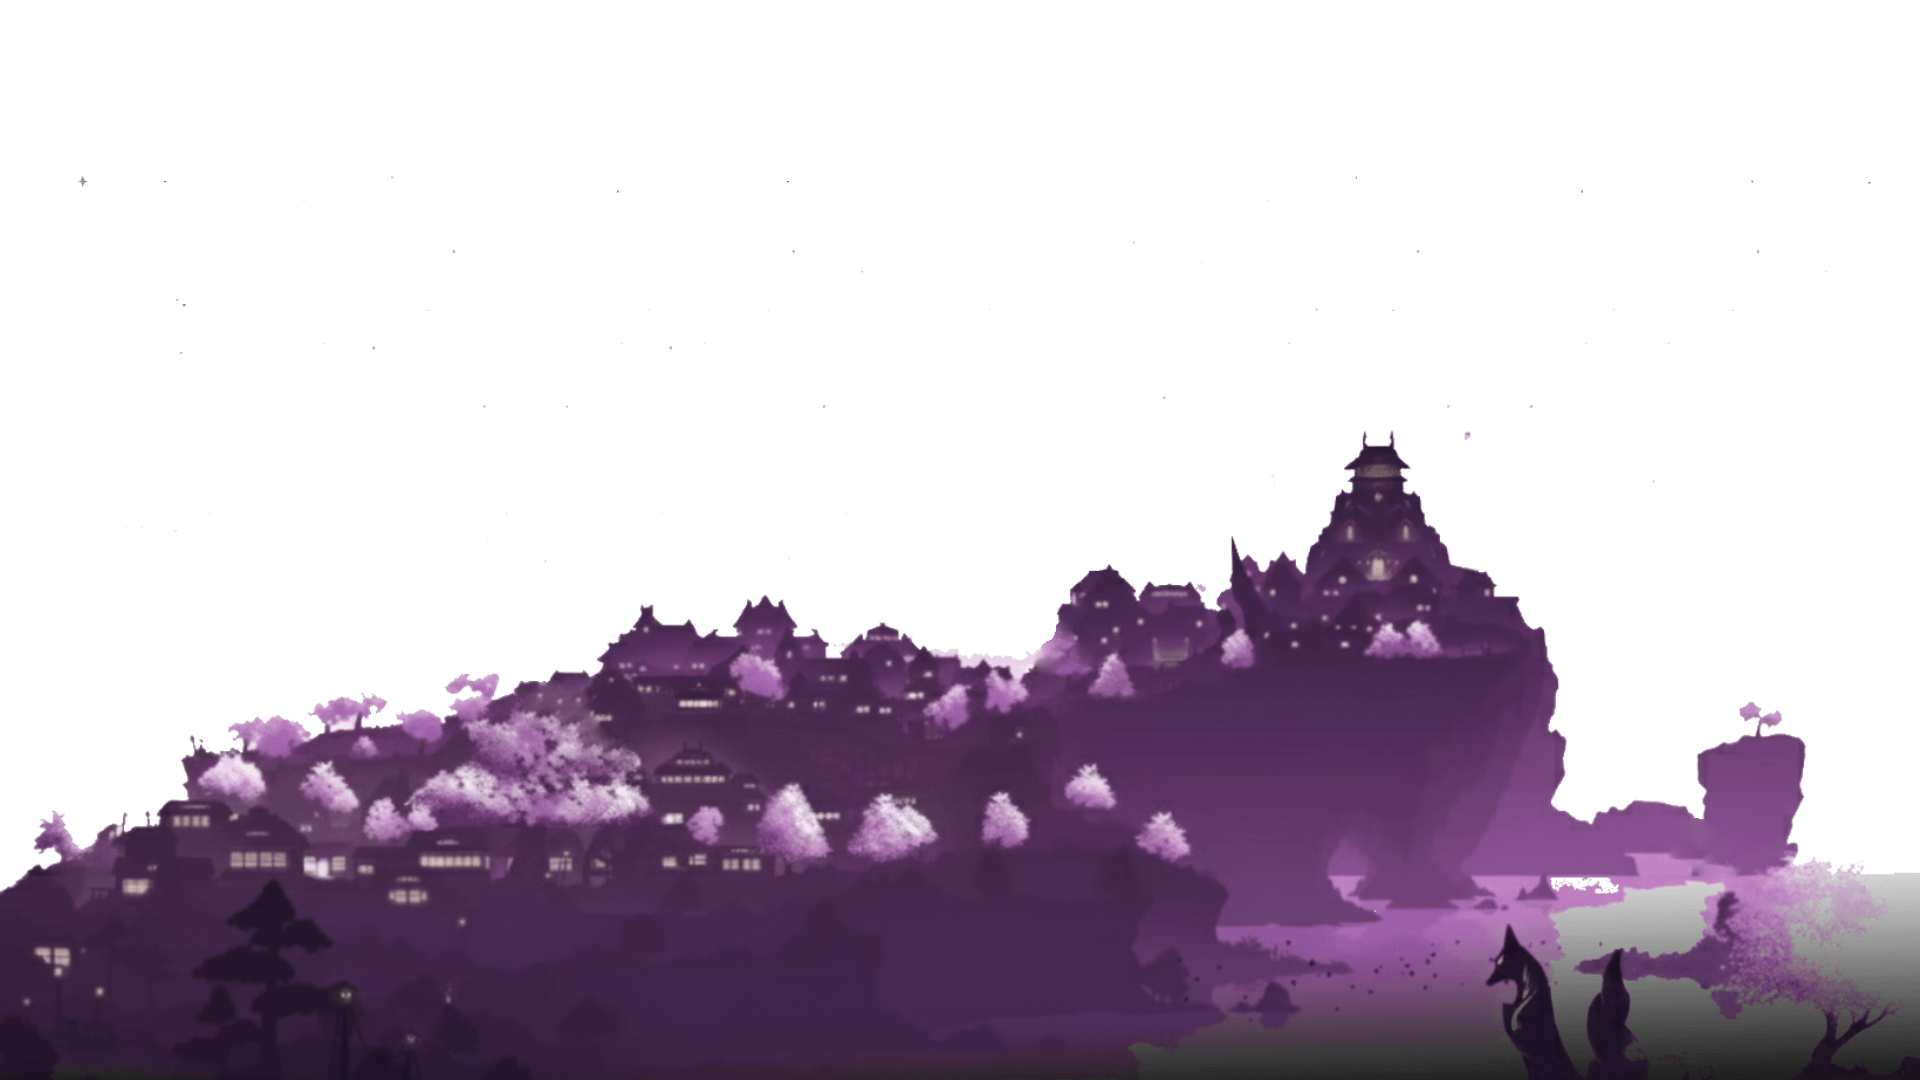
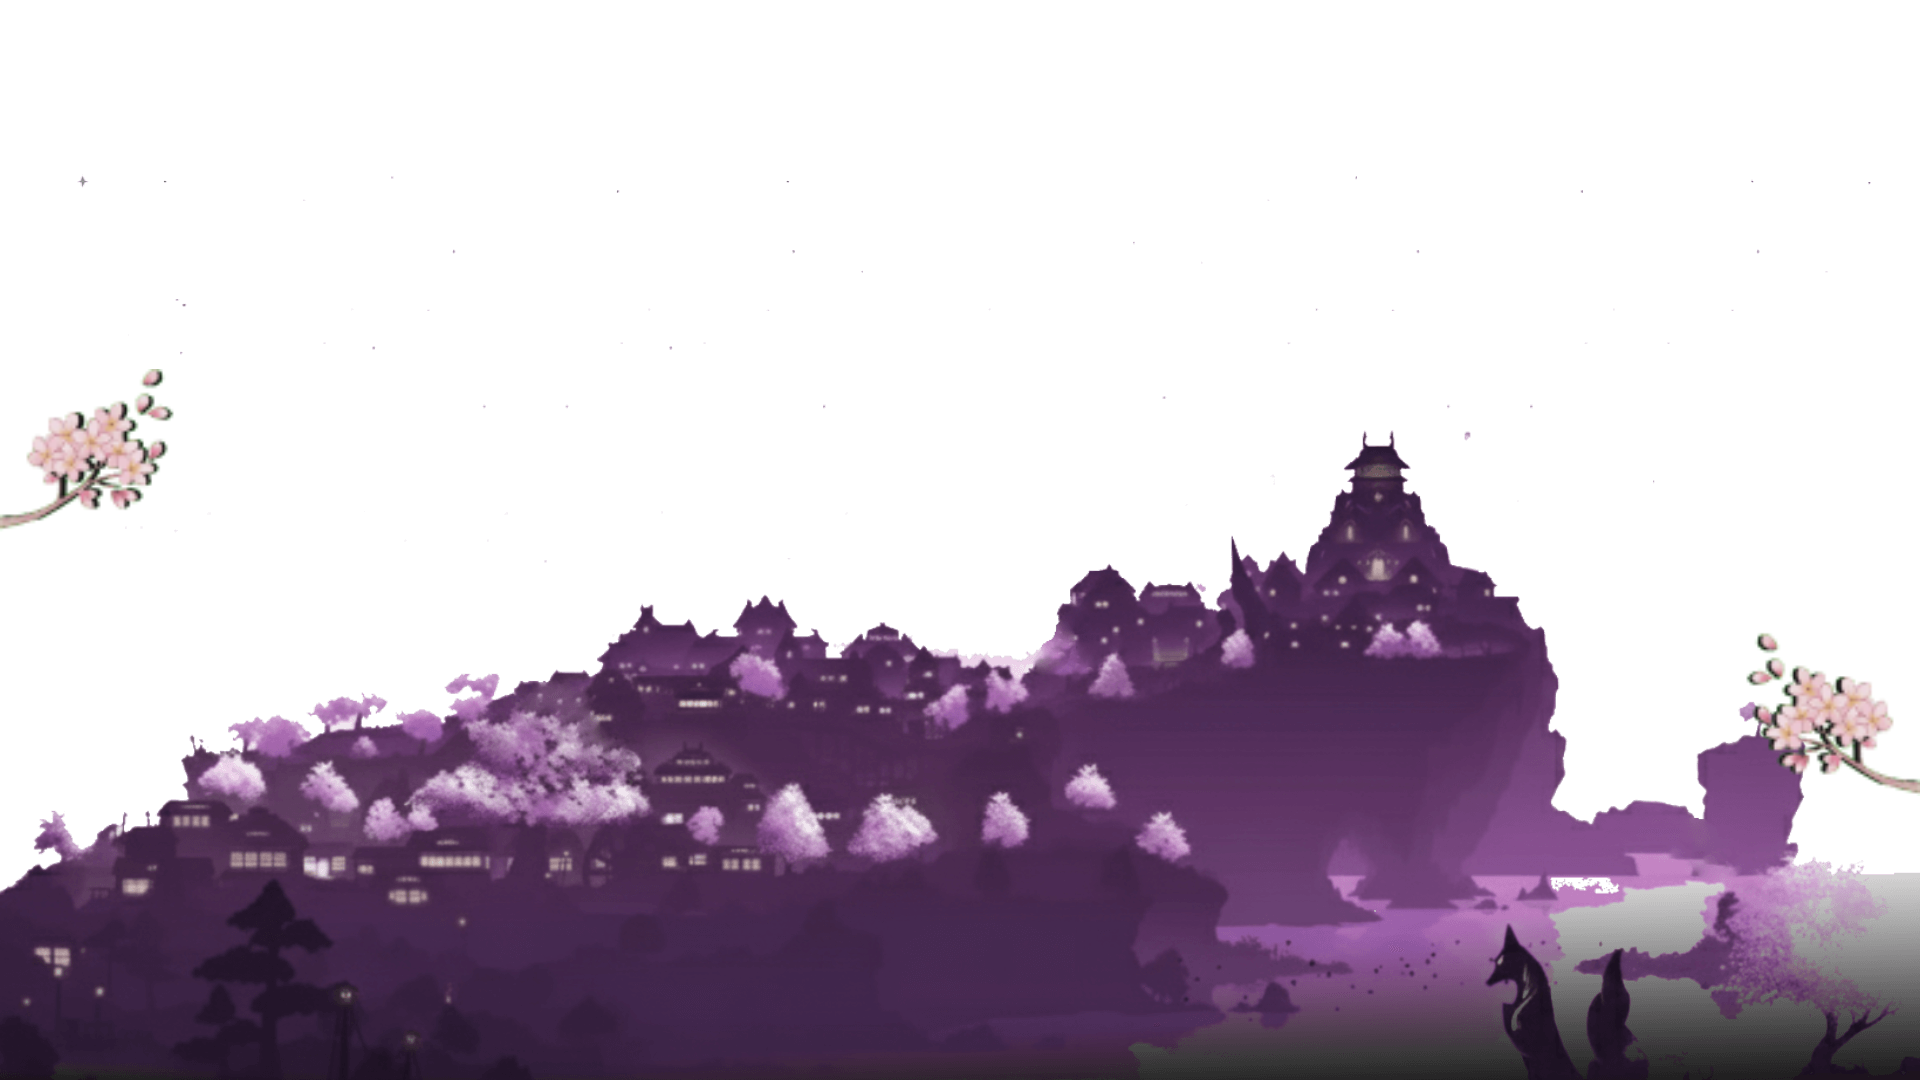
optimized home panel, too much slowness

Changed region(s): [[0.9062, 0.5806, 1.0, 0.7333], [0.0, 0.3361, 0.0938, 0.4889]]

diff --git a/src/parallax/ParallaxMain.js b/src/parallax/ParallaxMain.js
@@ -26,14 +26,6 @@ export default function ParallaxTop() {
           <div className="animation_layer parallax" id="PurpleBG"></div>
         </ParallaxLayer>
 
-        <ParallaxLayer
-          offset={0}
-          speed={1}
-          zIndex={210}
-          style={{ pointerEvents: "none" }}
-        >
-          <div className="animation_layer parallax" id="Moon"></div>
-        </ParallaxLayer>
 
         <ParallaxLayer
           offset={0}
@@ -55,7 +47,7 @@ export default function ParallaxTop() {
 
         <ParallaxLayer
           offset={0}
-          speed={0.4}
+          speed={0.7}
           zIndex={230}
           style={{ pointerEvents: "none" }}
         >
@@ -64,7 +56,7 @@ export default function ParallaxTop() {
 
         <ParallaxLayer
           offset={0}
-          speed={0.4}
+          speed={0.6}
           zIndex={240}
           style={{ pointerEvents: "none" }}
         >
@@ -73,21 +65,14 @@ export default function ParallaxTop() {
 
         <ParallaxLayer
           offset={0}
-          speed={0.5}
+          speed={0.6}
           zIndex={250}
           style={{ pointerEvents: "none" }}
         >
           <div className="animation_layer parallax" id="Layer3"></div>
         </ParallaxLayer>
 
-        <ParallaxLayer
-          offset={0}
-          speed={0.5}
-          zIndex={250}
-          style={{ pointerEvents: "none" }}
-        >
-          <div className="animation_layer parallax" id="Twigs"></div>
-        </ParallaxLayer>
+      
 
         <ParallaxLayer
           offset={0}

diff --git a/src/App.css b/src/App.css
@@ -98,7 +98,6 @@
 #Layer1 { background-image: url(./images/Layer1.png); }
 #Layer2 { background-image: url(./images/Layer2.png); }
 #Layer3 { background-image: url(./images/Layer3.png); }
-#Twigs { background-image: url(./images/BlossomLeaves.png); }
 #FillerClouds { background-image: url(./images/FillerClouds.png); }
 #Character { background-image: url(./images/RaidenCliff.png); }
 #Raiden { background-image: url(./images/RaidenShogun.png); background-size: contain; background-position: center; }
@@ -166,7 +165,7 @@
     background-position: center bottom;
   }
   #Layer3 {
-    background-size: cover;
+    background-size: contain;
     background-position: center top;
   }
 }

diff --git a/src/parallax/Lore.js b/src/parallax/Lore.js
@@ -1,5 +1,4 @@
 import React from "react";
-import { ParallaxLayer } from "@react-spring/parallax";
 
 export default function ParallaxLore() {
   return (
